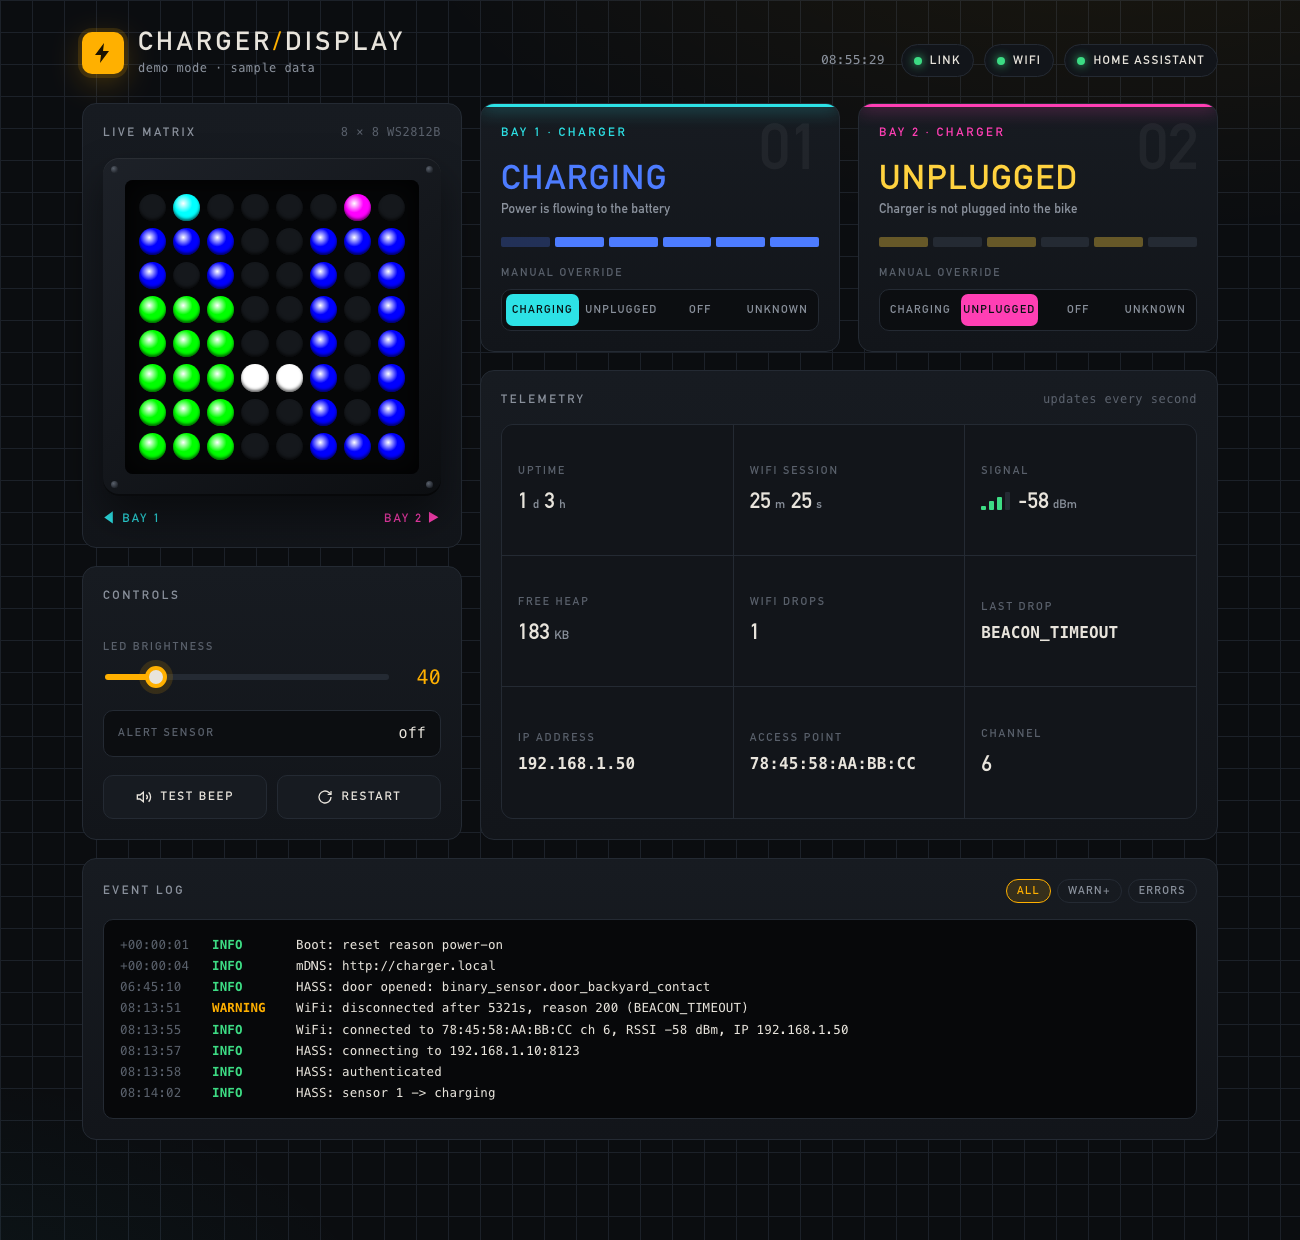
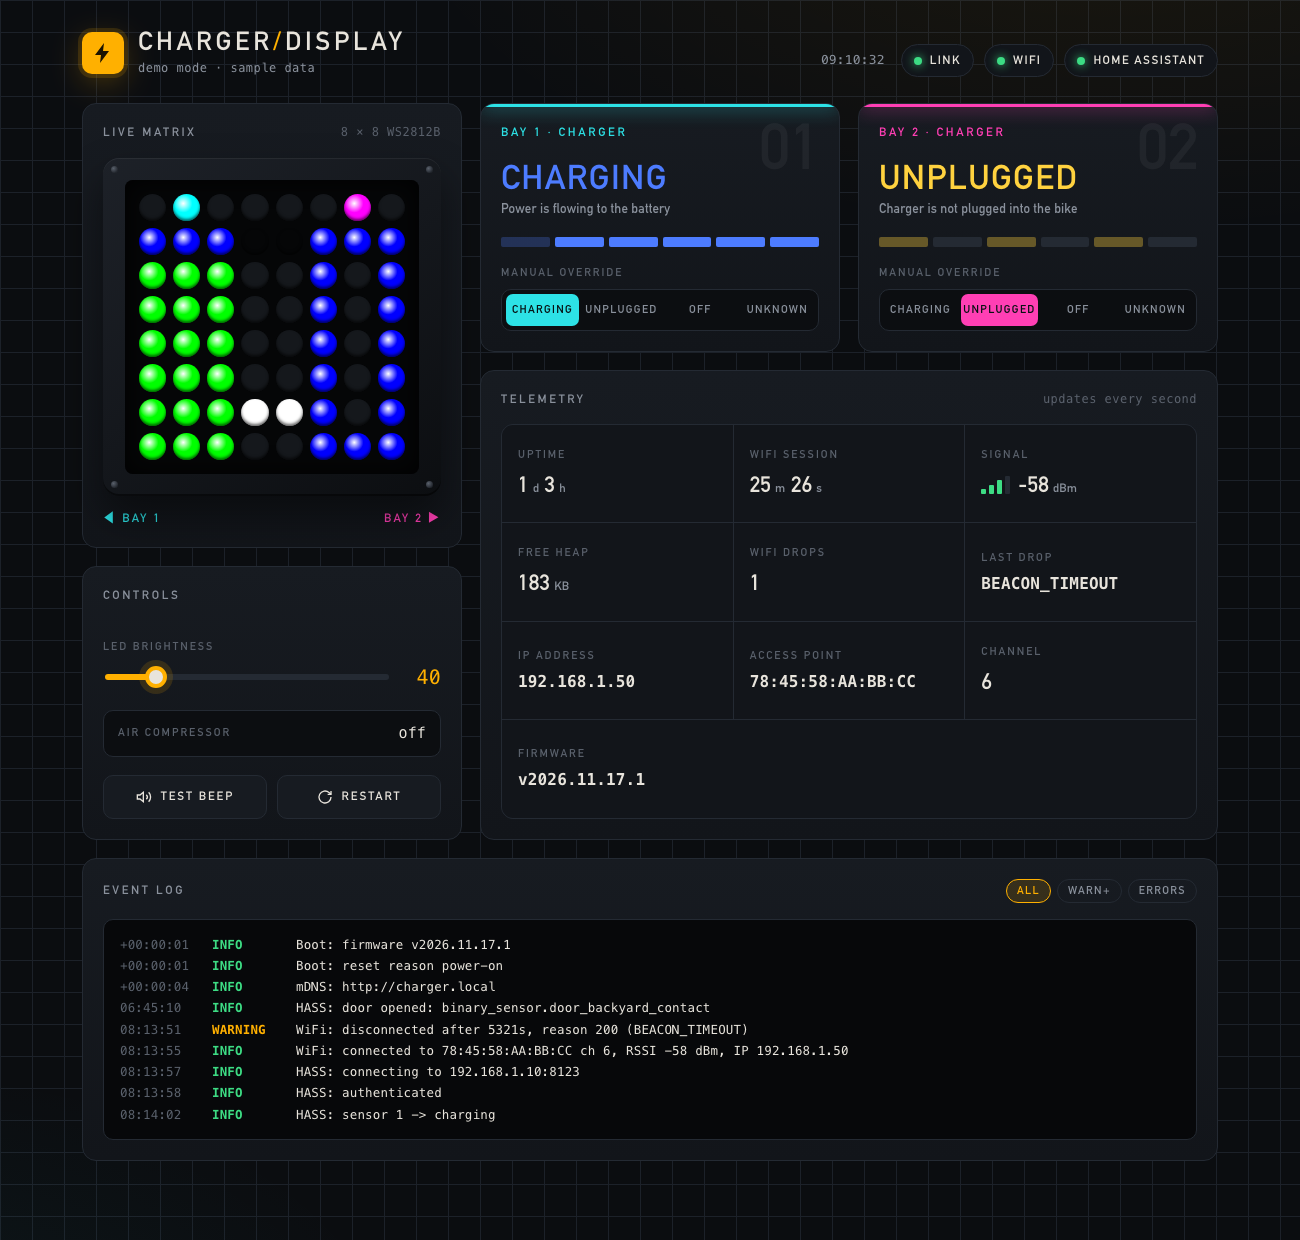
add dated release versions in ci and show firmware version

diff --git a/control-panel/index.html b/control-panel/index.html
@@ -160,6 +160,7 @@ header {
 .stat dd { margin: 0; font-size: 22px; font-weight: 600; white-space: nowrap; overflow: hidden; text-overflow: ellipsis; }
 .stat dd small { font-size: 12px; color: var(--muted); font-weight: 400; margin-left: 4px; }
 .stat .mono { font-family: var(--mono); font-size: 16px; }
+.stat:last-child { grid-column: span 3; }
 .bars { display: inline-flex; align-items: flex-end; gap: 3px; height: 18px; margin-right: 8px; vertical-align: -2px; }
 .bars i { width: 5px; border-radius: 1px; background: var(--line); }
 .bars i:nth-child(1) { height: 25%; } .bars i:nth-child(2) { height: 50%; } .bars i:nth-child(3) { height: 75%; } .bars i:nth-child(4) { height: 100%; }
@@ -239,7 +240,7 @@ body.stale .card { filter: saturate(.4); }
   .wrap { padding: 18px 14px 40px; }
   .bays { grid-template-columns: 1fr; }
   .stats { grid-template-columns: repeat(2, minmax(0, 1fr)); }
-  .stat:last-child { grid-column: span 2; }
+  .stat:last-child { grid-column: auto; }
   .stat .mono { font-size: 13px; }
   .header-right { width: 100%; }
   .bay-num { font-size: 48px; }
@@ -338,6 +339,7 @@ body.stale .card { filter: saturate(.4); }
           <div class="stat"><dt>IP address</dt><dd class="mono" id="ip_address">-</dd></div>
           <div class="stat"><dt>Access point</dt><dd class="mono" id="bssid">-</dd></div>
           <div class="stat"><dt>Channel</dt><dd id="channel">-</dd></div>
+          <div class="stat"><dt>Firmware</dt><dd class="mono" id="firmware_version">-</dd></div>
         </dl>
       </section>
     </div>
@@ -491,6 +493,7 @@ body.stale .card { filter: saturate(.4); }
     $("last_reason").textContent = d.wifi_disconnects ? (d.wifi_last_disconnect_reason || "-") : "none";
     $("bssid").textContent = d.wifi_bssid || "-";
     $("channel").textContent = d.wifi_channel || "-";
+    $("firmware_version").textContent = d.firmware_version || "-";
     const rssi = d.wifi_connected && typeof d.wifi_rssi === "number" ? d.wifi_rssi : null;
     $("rssi").innerHTML = rssi === null ? "-" : `${rssi}<small>dBm</small>`;
     $("bars").dataset.level = rssi === null ? 0 : rssi >= -55 ? 4 : rssi >= -65 ? 3 : rssi >= -75 ? 2 : 1;
@@ -596,12 +599,13 @@ body.stale .card { filter: saturate(.4); }
       "08:13:51 WARNING: WiFi: disconnected after 5321s, reason 200 (BEACON_TIMEOUT)",
       "06:45:10 INFO: HASS: door opened: binary_sensor.door_backyard_contact",
       "+00:00:04 INFO: mDNS: http://charger.local",
-      "+00:00:01 INFO: Boot: reset reason power-on"
+      "+00:00:01 INFO: Boot: reset reason power-on",
+      "+00:00:01 INFO: Boot: firmware v2026.11.17.1"
     ];
     function push() {
       tick++;
       render({
-        uptime: 98765 + tick, current_time: new Date().toTimeString().slice(0, 8), ip_address: "192.168.1.50",
+        firmware_version: "v2026.11.17.1", uptime: 98765 + tick, current_time: new Date().toTimeString().slice(0, 8), ip_address: "192.168.1.50",
         wifi_connected: true, ws_connected: true, wifi_last_connect_attempt: 1520 + tick,
         wifi_rssi: -58, wifi_bssid: "78:45:58:AA:BB:CC", wifi_channel: 6, wifi_disconnects: 1,
         wifi_last_disconnect_reason: "BEACON_TIMEOUT", sensor_1_state: "charging", sensor_2_state: "disconnected",

diff --git a/main/http_server_index.h b/main/http_server_index.h
@@ -161,6 +161,7 @@ header {
 .stat dd { margin: 0; font-size: 22px; font-weight: 600; white-space: nowrap; overflow: hidden; text-overflow: ellipsis; }
 .stat dd small { font-size: 12px; color: var(--muted); font-weight: 400; margin-left: 4px; }
 .stat .mono { font-family: var(--mono); font-size: 16px; }
+.stat:last-child { grid-column: span 3; }
 .bars { display: inline-flex; align-items: flex-end; gap: 3px; height: 18px; margin-right: 8px; vertical-align: -2px; }
 .bars i { width: 5px; border-radius: 1px; background: var(--line); }
 .bars i:nth-child(1) { height: 25%; } .bars i:nth-child(2) { height: 50%; } .bars i:nth-child(3) { height: 75%; } .bars i:nth-child(4) { height: 100%; }
@@ -240,7 +241,7 @@ body.stale .card { filter: saturate(.4); }
   .wrap { padding: 18px 14px 40px; }
   .bays { grid-template-columns: 1fr; }
   .stats { grid-template-columns: repeat(2, minmax(0, 1fr)); }
-  .stat:last-child { grid-column: span 2; }
+  .stat:last-child { grid-column: auto; }
   .stat .mono { font-size: 13px; }
   .header-right { width: 100%; }
   .bay-num { font-size: 48px; }
@@ -339,6 +340,7 @@ body.stale .card { filter: saturate(.4); }
           <div class="stat"><dt>IP address</dt><dd class="mono" id="ip_address">-</dd></div>
           <div class="stat"><dt>Access point</dt><dd class="mono" id="bssid">-</dd></div>
           <div class="stat"><dt>Channel</dt><dd id="channel">-</dd></div>
+          <div class="stat"><dt>Firmware</dt><dd class="mono" id="firmware_version">-</dd></div>
         </dl>
       </section>
     </div>
@@ -492,6 +494,7 @@ body.stale .card { filter: saturate(.4); }
     $("last_reason").textContent = d.wifi_disconnects ? (d.wifi_last_disconnect_reason || "-") : "none";
     $("bssid").textContent = d.wifi_bssid || "-";
     $("channel").textContent = d.wifi_channel || "-";
+    $("firmware_version").textContent = d.firmware_version || "-";
     const rssi = d.wifi_connected && typeof d.wifi_rssi === "number" ? d.wifi_rssi : null;
     $("rssi").innerHTML = rssi === null ? "-" : `${rssi}<small>dBm</small>`;
     $("bars").dataset.level = rssi === null ? 0 : rssi >= -55 ? 4 : rssi >= -65 ? 3 : rssi >= -75 ? 2 : 1;
@@ -597,12 +600,13 @@ body.stale .card { filter: saturate(.4); }
       "08:13:51 WARNING: WiFi: disconnected after 5321s, reason 200 (BEACON_TIMEOUT)",
       "06:45:10 INFO: HASS: door opened: binary_sensor.door_backyard_contact",
       "+00:00:04 INFO: mDNS: http://charger.local",
-      "+00:00:01 INFO: Boot: reset reason power-on"
+      "+00:00:01 INFO: Boot: reset reason power-on",
+      "+00:00:01 INFO: Boot: firmware v2026.11.17.1"
     ];
     function push() {
       tick++;
       render({
-        uptime: 98765 + tick, current_time: new Date().toTimeString().slice(0, 8), ip_address: "192.168.1.50",
+        firmware_version: "v2026.11.17.1", uptime: 98765 + tick, current_time: new Date().toTimeString().slice(0, 8), ip_address: "192.168.1.50",
         wifi_connected: true, ws_connected: true, wifi_last_connect_attempt: 1520 + tick,
         wifi_rssi: -58, wifi_bssid: "78:45:58:AA:BB:CC", wifi_channel: 6, wifi_disconnects: 1,
         wifi_last_disconnect_reason: "BEACON_TIMEOUT", sensor_1_state: "charging", sensor_2_state: "disconnected",

diff --git a/scripts/pio_version.py b/scripts/pio_version.py
@@ -1,0 +1,38 @@
+# PlatformIO extra script: compiles the firmware version into FIRMWARE_VERSION.
+# Order: the FIRMWARE_VERSION environment variable (set by the CI release
+# build), then `git describe` (e.g. v2026.11.17.1, or v2026.11.17.1-3-gabc1234
+# after a tag, with -dirty for uncommitted changes), then "dev".
+import os
+import re
+import subprocess
+
+Import("env")  # noqa: F821  (provided by PlatformIO/SCons)
+
+ALLOWED = re.compile(r"^[A-Za-z0-9._+-]{1,40}$")
+
+
+def git_version(project_dir):
+    try:
+        out = subprocess.run(
+            ["git", "describe", "--tags", "--match", "v*", "--always", "--dirty"],
+            cwd=project_dir,
+            capture_output=True,
+            text=True,
+            timeout=10,
+            check=True,
+        ).stdout.strip()
+    except (OSError, subprocess.SubprocessError):
+        return None
+    return out or None
+
+
+def resolve_version(project_dir):
+    for candidate in (os.environ.get("FIRMWARE_VERSION", "").strip(), git_version(project_dir)):
+        if candidate and ALLOWED.match(candidate):
+            return candidate
+    return "dev"
+
+
+version = resolve_version(env.subst("$PROJECT_DIR"))  # noqa: F821
+print("Firmware version: " + version)
+env.Append(CPPDEFINES=[("FIRMWARE_VERSION", env.StringifyMacro(version))])  # noqa: F821

diff --git a/main/config.h b/main/config.h
@@ -15,6 +15,13 @@ constexpr uint8_t MATRIX_HEIGHT = 8;
 constexpr uint16_t LED_COUNT = MATRIX_WIDTH * MATRIX_HEIGHT;
 constexpr uint8_t DEFAULT_BRIGHTNESS = 20;
 
+// --- Build ------------------------------------------------------------------
+// Set by scripts/pio_version.py (release tag or `git describe`). Arduino IDE
+// builds do not run that script and report "dev".
+#ifndef FIRMWARE_VERSION
+#define FIRMWARE_VERSION "dev"
+#endif
+
 // --- Network services -------------------------------------------------------
 #ifndef DEVICE_HOSTNAME
 #define DEVICE_HOSTNAME "charger"

diff --git a/main/http_server.cpp b/main/http_server.cpp
@@ -148,6 +148,7 @@ void buildStatusJson(String& out) {
     formatClock(clock, sizeof(clock));
 
     JsonDocument doc;
+    doc["firmware_version"] = FIRMWARE_VERSION;
     doc["uptime"] = millis() / 1000;
     doc["current_time"] = clock;
     doc["ip_address"] = WiFi.localIP().toString();

diff --git a/docs/development.md b/docs/development.md
@@ -58,8 +58,19 @@ If `html-minifier` isn't installed, you can paste the HTML unminified between th
 
 ## CI
 
-`.github/workflows/c-cpp.yml` runs the host tests, then compiles with PlatformIO twice: `pio run -e usb` with the template secrets, and `pio run -e ota` with OTA enabled.
+`.github/workflows/c-cpp.yml` runs these jobs:
 
+| Job | What it does |
+| --- | --- |
+| `version` | Works out the next release number, `vYYYY.MM.DD.N` (Amsterdam date; `N` counts the releases of that day, starting at 1) |
+| `host-tests` | `scripts/test.sh` with GCC, then with Clang plus AddressSanitizer and UndefinedBehaviorSanitizer |
+| `format` | `scripts/format.sh --check` with clang-format 17.0.6 |
+| `build` | `pio run -e usb` with the template secrets and `pio run -e ota` with OTA enabled; both `firmware.bin` files are kept as run artifacts |
+| `release` | Creates the tag and a GitHub release when every other job passed |
+
+The workflow only runs when firmware, tests, scripts, the web UI, `platformio.ini`, `.clang-format`, or the workflow changes. A release is created for pushes to `main` and for manual runs on `main` (*Actions → Firmware CI → Run workflow*). Pull requests and other branches only test and build. Runs on `main` wait for each other instead of being cancelled, so two runs never take the same number.
+
+The release has no binaries attached. CI builds with `secrets_template.h`, so its binaries do not contain your WiFi or Home Assistant settings. To install a release, check out its tag and build locally (see [Versions](platformio.md#versions)).
 ## Log receiver (optional)
 
 `http-server/` contains a small aiohttp app that receives UDP log lines and streams them in a browser. The firmware doesn't send UDP logs by default.

diff --git a/docs/platformio.md b/docs/platformio.md
@@ -79,6 +79,7 @@ pio device monitor              # serial log at 115200 baud; Ctrl+C to quit
 After boot, the serial log shows lines like:
 
 ```
+Boot: firmware v2026.11.17.1
 Boot: reset reason power-on
 WiFi: connected to 78:45:58:AA:BB:CC ch 6, RSSI -61 dBm, IP 192.168.1.50
 OTA: ready
@@ -134,6 +135,29 @@ espota sends an invitation over UDP to port 3232. The ESP32 then opens a TCP con
 | Build fails with `The program size (...) is greater than maximum allowed` | Firmware larger than the app slot | Check `pio run -t size`; the partition table must stay `min_spiffs.csv` |
 
 To turn OTA off again, set `ENABLE_OTA 0` (or remove the line) and do one more upload. That upload can still go over OTA.
+
+## Versions
+
+Every build has a firmware version. `scripts/pio_version.py` sets it in this order:
+
+1. The `FIRMWARE_VERSION` environment variable. CI release builds set it to the new tag.
+2. `git describe --tags --match 'v*' --always --dirty`:
+   - on a release tag: `v2026.11.17.1`
+   - 3 commits after a tag: `v2026.11.17.1-3-gabc1234`
+   - with uncommitted changes: `...-dirty` (`main/secrets.h` is ignored by git and does not count)
+   - before the first tag: the short commit hash
+3. `dev` if git is not available. Arduino IDE builds always show `dev`.
+
+The version appears in the boot log (`Boot: firmware v2026.11.17.1`), as `firmware_version` in `/status`, under *Firmware* in the web UI, and as the `version` TXT record of the mDNS `_http._tcp` service.
+
+CI creates the tags (see [development.md](development.md#ci)). To flash a release:
+
+```sh
+git fetch --tags
+git checkout v2026.11.17.1
+pio run -t upload               # or: pio run -e ota -t upload
+git checkout main
+```
 
 ## Changing versions
 

diff --git a/CHANGELOG.md b/CHANGELOG.md
@@ -1,6 +1,6 @@
 # Changelog
 
-All notable changes to this project are listed here. The format follows [Keep a Changelog](https://keepachangelog.com/en/1.1.0/). The firmware has no version numbers yet; entries are grouped under *Unreleased* until the first tagged release.
+All notable changes to this project are listed here. The format follows [Keep a Changelog](https://keepachangelog.com/en/1.1.0/). Releases are tagged `vYYYY.MM.DD.N` by CI on every successful push to `main`; changes not yet in a release are listed under *Unreleased*.
 
 ## Unreleased
 
@@ -27,6 +27,8 @@ All notable changes to this project are listed here. The format follows [Keep a 
 - Host unit tests for the WiFi reconnect policy, input validation, and the log ring (`tests/host`, `scripts/test.sh`), run in CI.
 - Documentation: architecture, API, WiFi troubleshooting, development, domain glossary (`CONTEXT.md`), decision records (`docs/adr/`), contributor guide, and agent instructions (`AGENTS.md`).
 - Code style config: `.editorconfig`, `.clang-format`, `scripts/format.sh`.
+- Firmware version: CI tags every successful push to `main` (and manual runs on `main`) as `vYYYY.MM.DD.N` and creates a GitHub release. The version is shown in the boot log, the web UI, `/status` (`firmware_version`), and mDNS. Local builds use `git describe` (`scripts/pio_version.py`).
+- CI also checks formatting and runs the host tests with sanitizers.
 
 ### Changed
 

diff --git a/CONTRIBUTING.md b/CONTRIBUTING.md
@@ -24,7 +24,7 @@ The hook needs `html-minifier` (`npm install -g html-minifier`). See [docs/devel
 | Formatting | `scripts/format.sh --check` | `clang-format` |
 | Firmware build | `pio run` | [PlatformIO](docs/platformio.md) |
 
-CI runs the host tests and two firmware builds (with and without OTA). Changes to WiFi or Home Assistant handling also need a test on real hardware: leave the display running for at least a day and check `wifi_disconnects` in `/status` and the event log.
+CI runs the host tests, a format check, and two firmware builds (with and without OTA). Every successful push to `main` also creates a dated release tag (see [docs/development.md](docs/development.md#ci)). Changes to WiFi or Home Assistant handling also need a test on real hardware: leave the display running for at least a day and check `wifi_disconnects` in `/status` and the event log.
 
 ## Code guidelines
 

diff --git a/docs/adr/0004-platformio-builds.md b/docs/adr/0004-platformio-builds.md
@@ -12,6 +12,7 @@ Arduino IDE builds depend on whatever core and library versions are installed on
 - `platformio.ini` is the single build definition: board `esp32dev`, the pioarduino platform pinned to a release (Arduino-ESP32 3.2.0), the `min_spiffs.csv` partition table, and `lib_deps` with version ranges.
 - Two environments: `usb` (default, serial upload) and `ota` (espota to `charger.local`). `scripts/pio_ota_auth.py` reads the OTA password from `main/secrets.h`, so it is written down only once.
 - CI runs `pio run -e usb` and an OTA-enabled `pio run -e ota`, after the host tests (`scripts/test.sh`, plain C++ compiler).
+- `scripts/pio_version.py` compiles the version (CI release tag or `git describe`) into `FIRMWARE_VERSION`.
 - `src_dir = main`, so the sketch still opens in the Arduino IDE.
 
 ## Consequences

diff --git a/docs/api.md b/docs/api.md
@@ -19,6 +19,7 @@ Errors return a 4xx code with `{"status":"error","message":"..."}`.
 
 | Key | Type | Meaning |
 | --- | --- | --- |
+| `firmware_version` | string | Release tag such as `v2026.11.17.1`, a `git describe` string for other builds, or `dev` |
 | `uptime` | int | Seconds since boot |
 | `current_time` | string | `HH:MM:SS` local time, or `+HH:MM:SS` uptime before NTP sync |
 | `ip_address` | string | Station IP |
